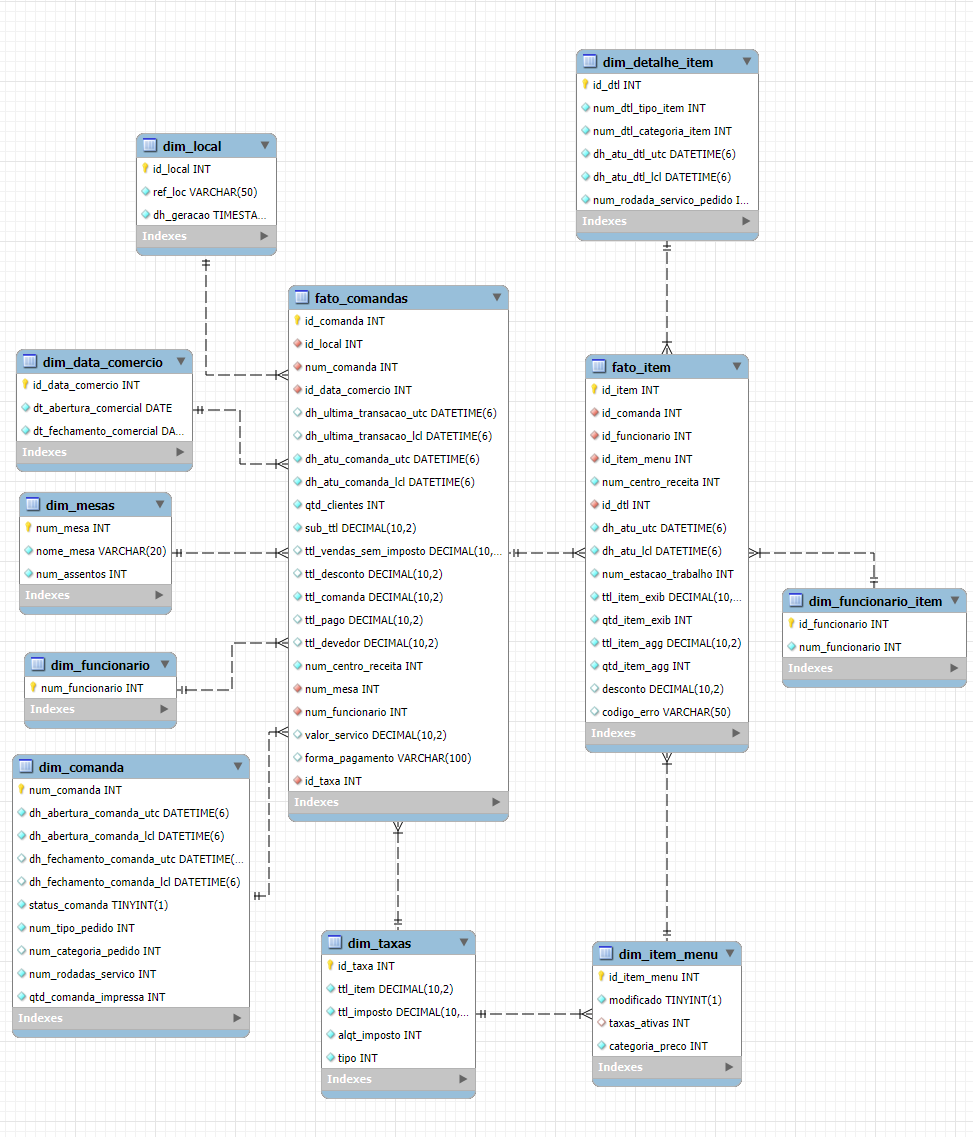
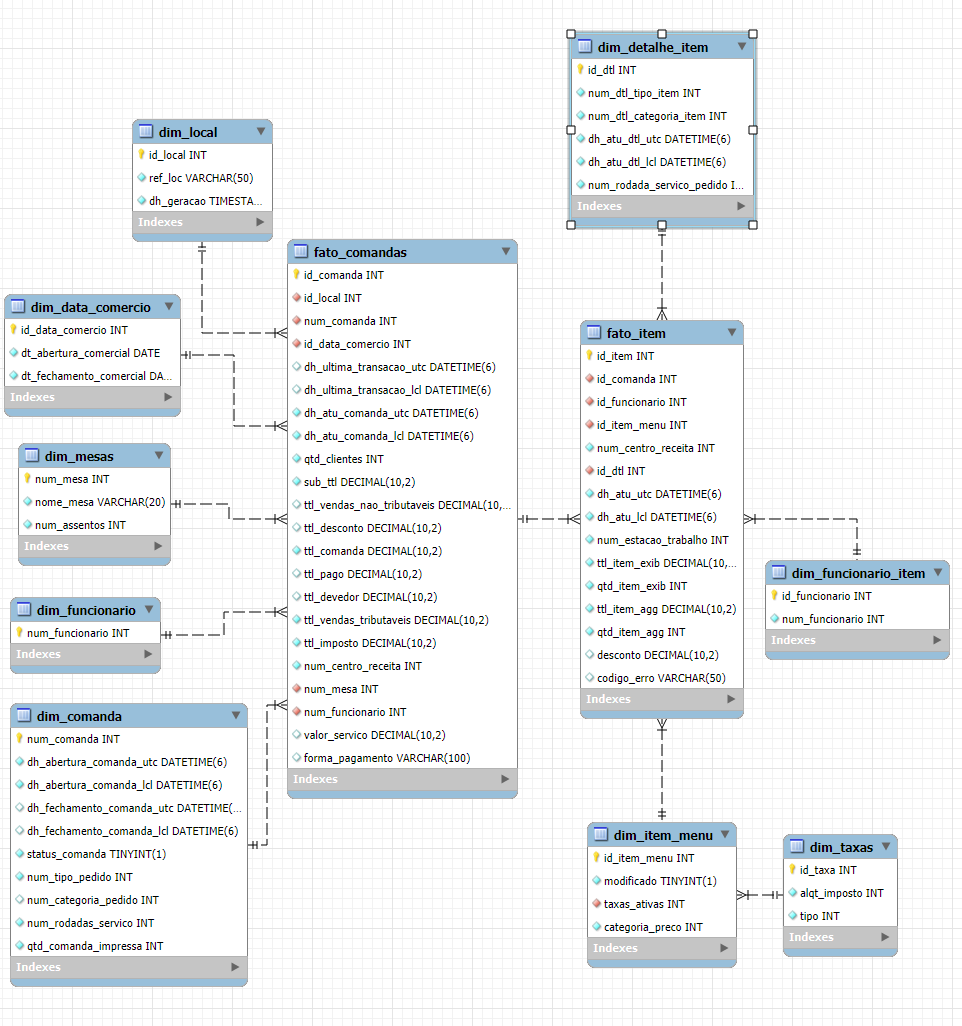
Ajustes no readme e no script sql

diff --git a/README.md b/README.md
@@ -87,7 +87,7 @@ Cada objeto dentro do array, detalha um pedido.
 
     "taxNum": integer -> Identificador da taxa.
 
-    "txblSlsTtl": numeric ou decimal -> Valor do item antes do desconto.
+    "txblSlsTtl": numeric ou decimal -> Valor total de vendas tributáveis.
 
     "taxCollTtl": numeric ou decimal -> Total do imposto coletado.
 
@@ -166,7 +166,7 @@ A abordagem escolhida para a modelagem de dados foi o Esquema Estrela/Floco de n
 
 Foi criada duas tabelas fato, uma para as comandas (GuestCheck) e outra para os Itens (guestCheckLineItemId). 
 
-* **fato_comandas**: Contém uma linha para cada comanda. Ela inclui as datas de atualização e transação (dh_atu_comanda, dh_ultima_transacao), o sub total da comanda (sub_ttl), o valor total de vendas não tributáveis (ttl_vendas_sem_imposto), o valor total de desconto aplicado (ttl_desconto), o valor total da comanda (ttl_comanda), o total que foi pago e o total devedor (ttl_pago, ttl_devedor), quantidade de clientes da comanda (qtd_clientes), o número do centro de receita (num_centro_receita), o serviceCharge (valor_servico) e o tenderMedia (forma_pagamento).
+* **fato_comandas**: Contém uma linha para cada comanda. Ela inclui as datas de atualização e transação (dh_atu_comanda, dh_ultima_transacao), o sub total da comanda (sub_ttl), o valor total de vendas tributáveis e não tributáveis (ttl_vendas_tributaveis, ttl_vendas_sem_imposto), o valor total de desconto aplicado (ttl_desconto), o valor total da comanda (ttl_comanda), o valor total de imposto coletado (ttl_imposto), o total que foi pago e o total devedor (ttl_pago, ttl_devedor), quantidade de clientes da comanda (qtd_clientes), o número do centro de receita (num_centro_receita), o serviceCharge (valor_servico) e o tenderMedia (forma_pagamento).
 
 * **fato_item**: Contém uma linha para cada item vendido. Suas métricas incluem o número do centro de receita (num_centro_receita), datas de atualização (dh_atu), número da estação de trabalho (num_estacao_trabalho), o valor e quantidade de exibição do item (ttl_item_exib, qtd_item_exib), valor e quantidade agregada do item (ttl_item_agg, qtd_item_agg), discount (desconto) e o errorCode (codigo_erro) 
 
@@ -182,7 +182,7 @@ Foi criada duas tabelas fato, uma para as comandas (GuestCheck) e outra para os 
 
 * dim_local: Descreve o local, com a referência e a data e hora de geração dos dados.
 
-* dim_taxas: Descreve as taxas associadas aos valores e aos itens. Isso é feito usando o valor total do item, o valor total do imposto, a aliquota e o tipo de calculo.
+* dim_taxas: Descreve as taxas associadas aos valores dos itens. Isso é feito usando a aliquota e o tipo de calculo.
 
 * dim_detalhe_item: Descreve os atributos do item em si. Possui o número do detalhe do tipo e da categoria do item, as datas de atualização e o número da rodada de serviço que o item foi pedido.
 
@@ -192,7 +192,7 @@ Foi criada duas tabelas fato, uma para as comandas (GuestCheck) e outra para os 
 
 #### Relações
 
-Como o JSON fornecido corresponde a um determinado pedido com um único item, referente a um único item de menu, a tabela fato_item é considerada uma tabela ponte entre a fato_comandas e a dim_detalhe_item. Pois uma comanda pode ter vários itens e cada item supostamente pode ser pedido em outras comandas, e esse mesmo item vai sempre corresponder a um único item de menu.
+Como o JSON fornecido corresponde a um determinado pedido com um único item, referente a um único item de menu, a tabela fato_item é considerada uma tabela ponte entre a fato_comandas e a dim_item_menu. Pois uma comanda pode ter vários itens e cada item supostamente pode ser pedido em outras comandas, e esse mesmo item vai sempre corresponder a um único item de menu.
 
 #### Justificativa
 
@@ -226,7 +226,7 @@ Os dados seriam armazenados nessa estrutura:
 
 `\datalake\bronze\files\Transactions\loja_storeId\dados_YYYYMMDD.json`
 
-Escolhi esse formato para facilitar a questão de ordenação e auditoria dos dados. Os dados seriam obtidos por meio dos endpoints em que cada um deles teria sua própria pasta, e dentro dessa pasta os dados seriam divididos pelo id da loja "storeId", criando assim a mascara da pasta, e o arquivo gerado teria a mascara de ano, mês e dia correspondente ao "busId". Esse formato iria facilitar o ordenamento por data e também por loja, agilizando a busca de um dado de uma loja específica em um dia específico. Após a armazenagem dos dados, os dados passariam por um tratamento para serem carregados nas tabelas e a cada tratamento eles seriam colocados em pastas diferentes sendo "silver" para dados intermediários prontos para análise exploratória, e "gold" para dados refinados prontos para serem aplicados em ferramentas de BI e dashboards.
+Escolhi esse formato para facilitar a questão de ordenação e auditoria dos dados. Os dados seriam obtidos por meio dos endpoints em que cada um deles teria sua própria pasta, e dentro dessa pasta os dados seriam divididos pelo id da loja "storeId", criando assim a mascara da pasta, e o arquivo gerado teria a mascara de ano, mês e dia correspondente ao "busId". Esse formato iria facilitar o ordenamento por data e também por loja, agilizando a busca de um dado de uma loja específica em um dia específico. Após a armazenagem dos dados, os dados passariam por um tratamento para serem carregados nas tabelas e a cada etapa de tratamento eles seriam colocados em pastas diferentes sendo "silver" para dados intermediários prontos para análise exploratória, e "gold" para dados refinados prontos para serem aplicados em ferramentas de BI e dashboards.
 
 ### 3. Implicação da alteração na resposta do endpoint
 
